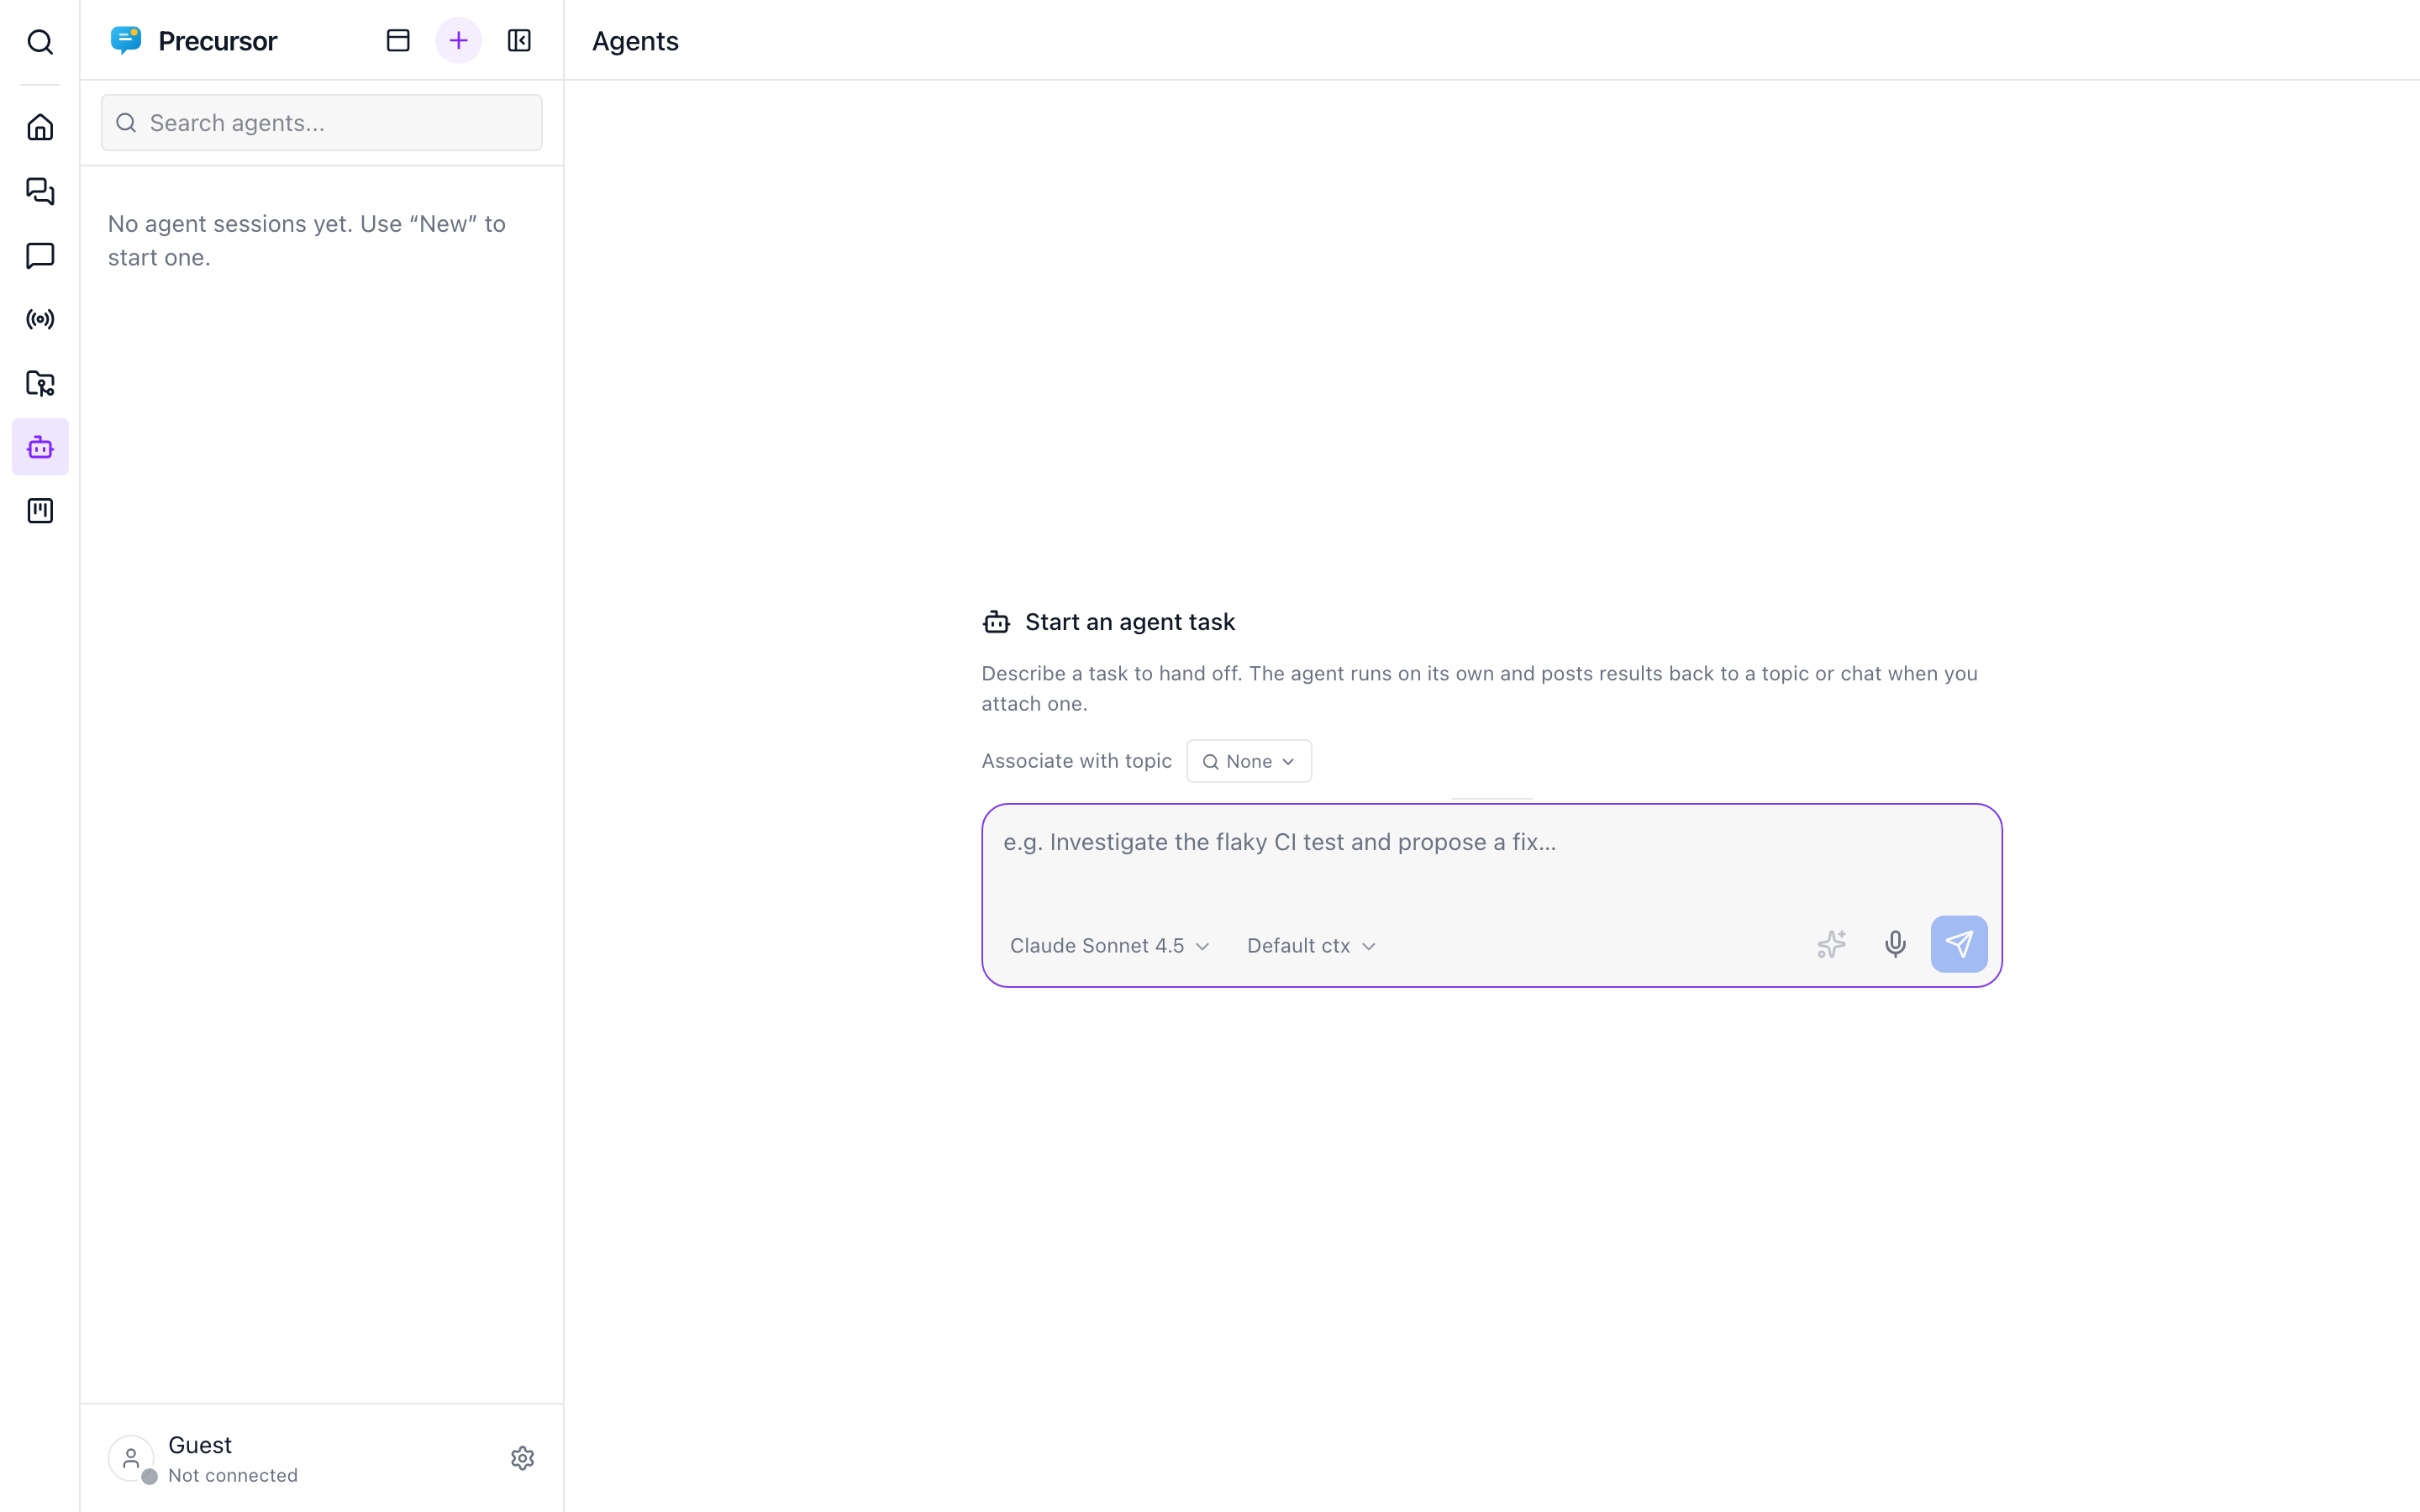
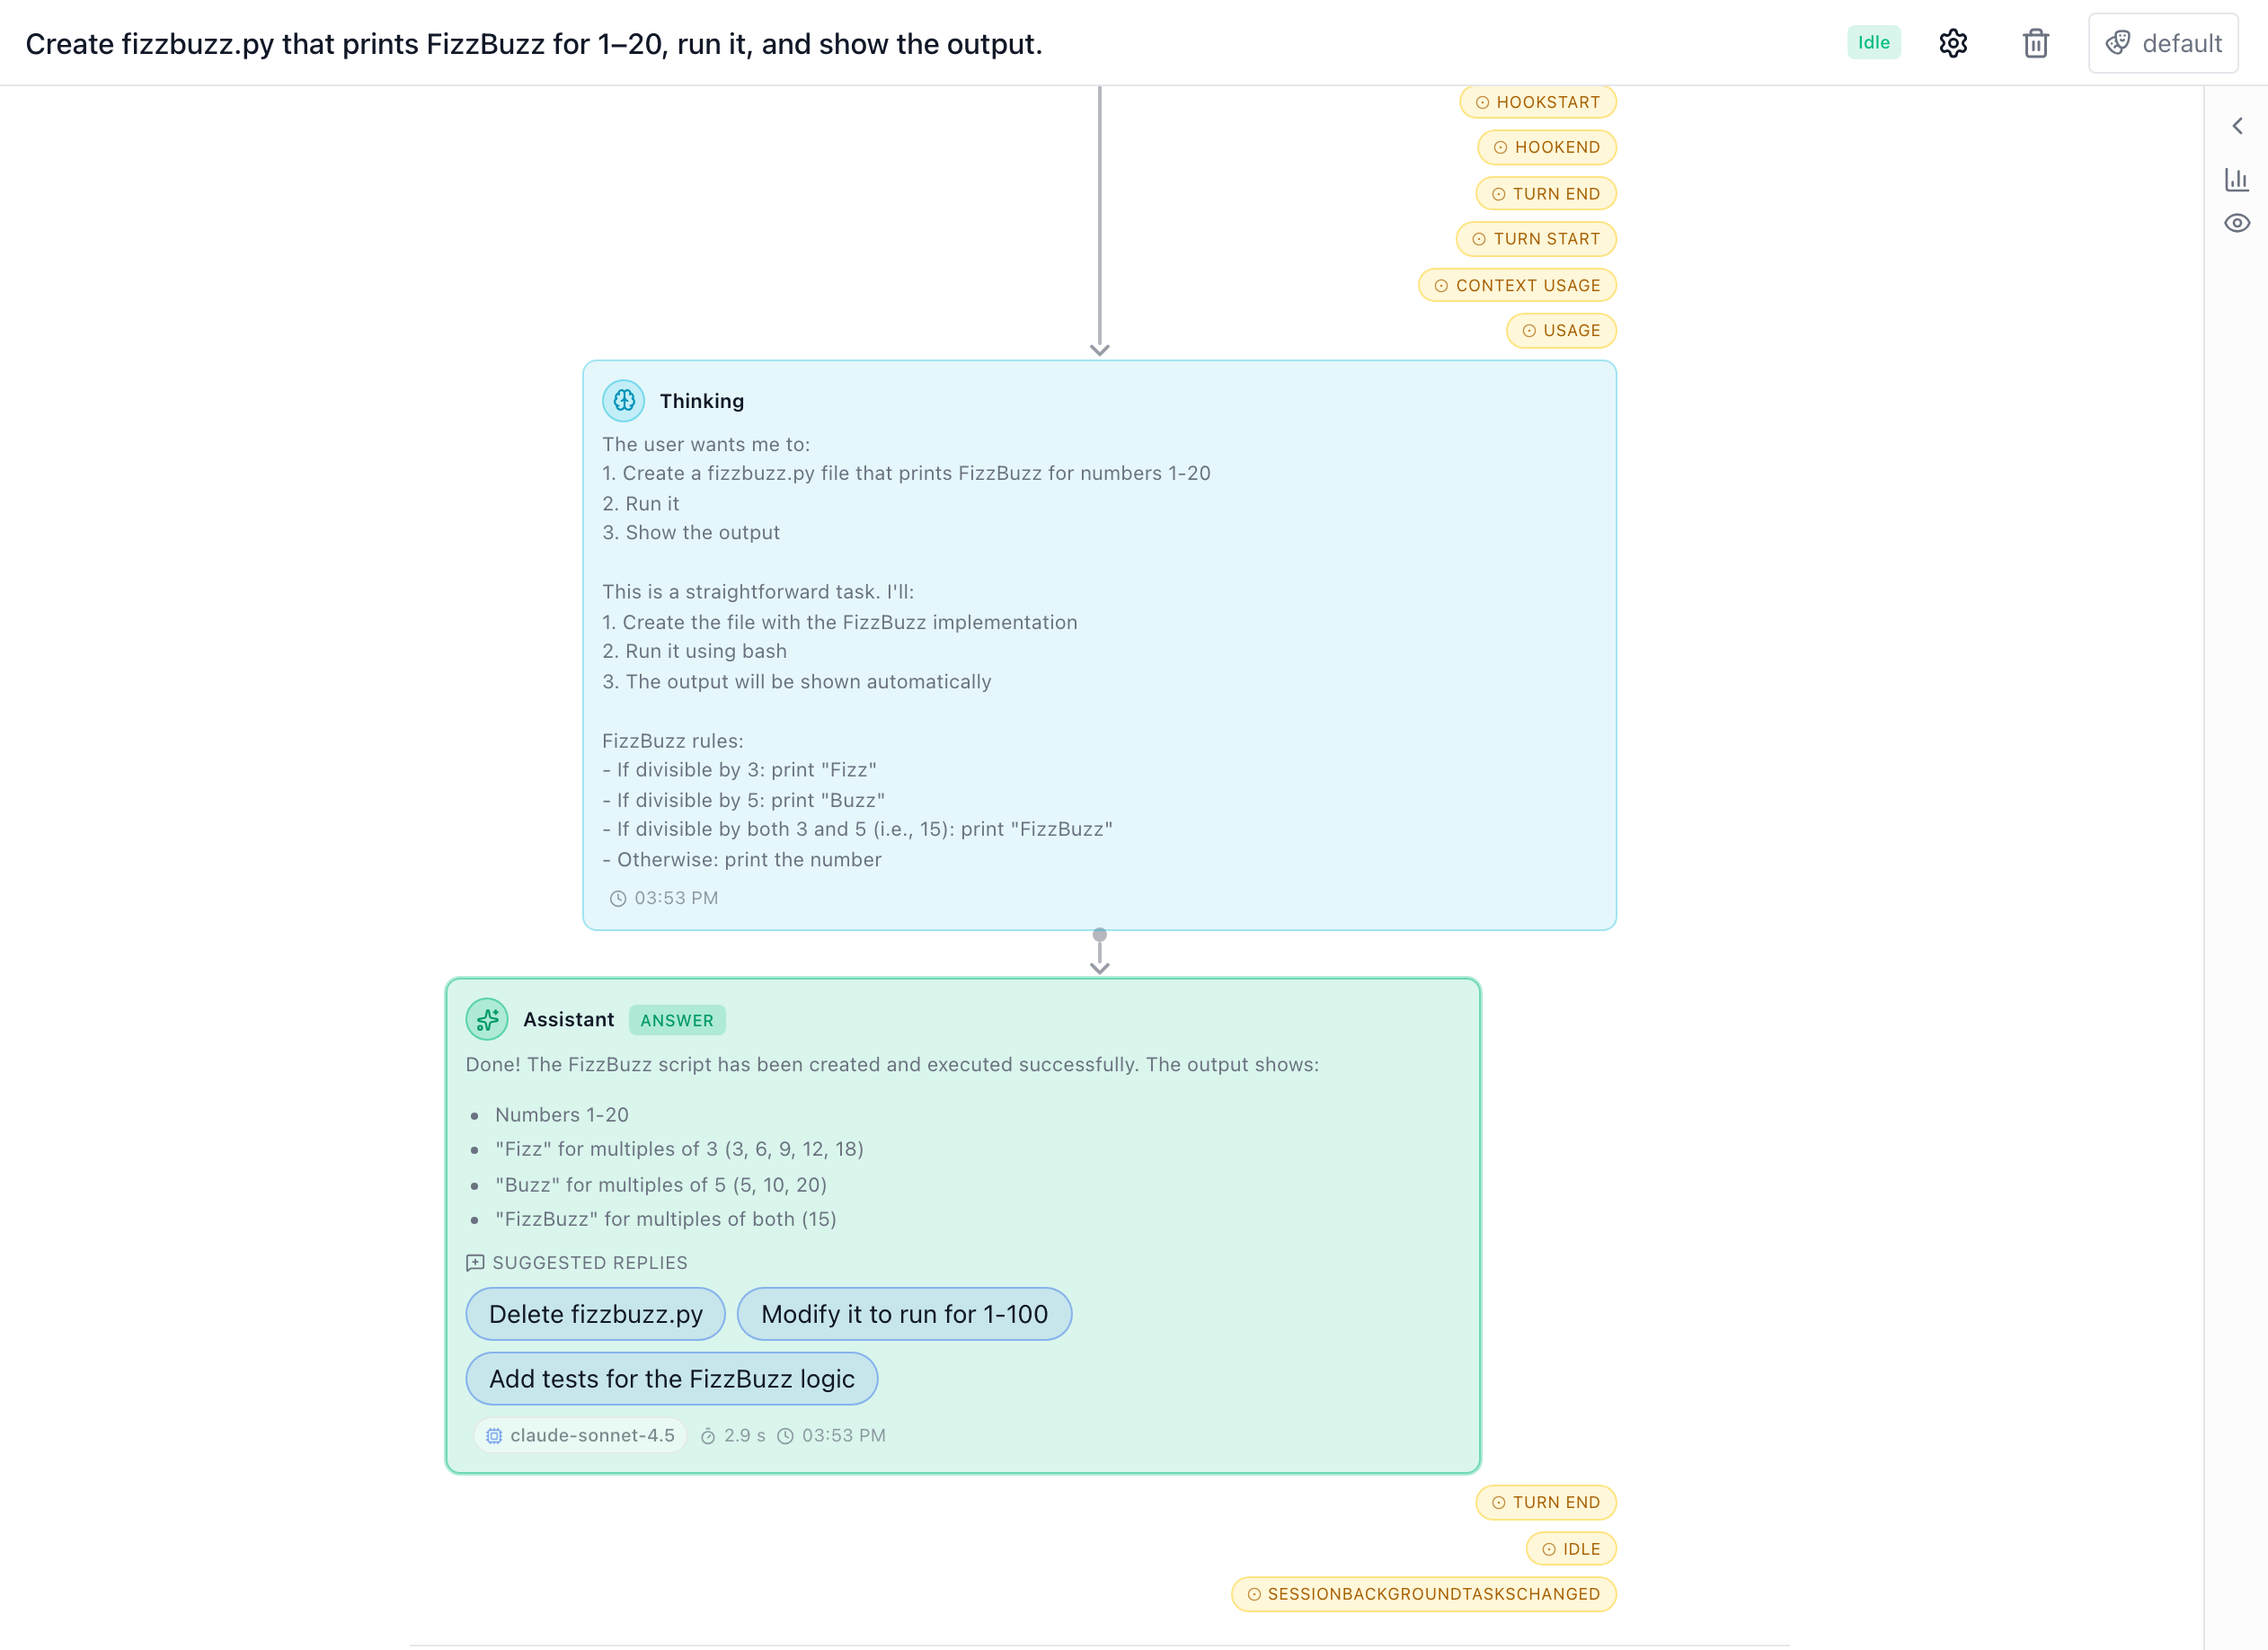
docs(agents): real agent-conversation screenshots (light + dark)
Replace the empty start-hero agents shot with a real completed run (task,
reasoning step, assistant answer + suggested replies) captured light and dark,
clipped to the timeline pane (account hidden). Update the caption to match.

Copilot-Session: 27f6deeb-4fce-428b-a878-c18e39554273

diff --git a/website/features/agents.md b/website/features/agents.md
@@ -8,7 +8,7 @@ title: Agents
 attached to a topic or chat, and lets you follow its progress in a workflow-style
 timeline. It's **opt-in and off by default**.
 
-<Screenshot src="/screenshots/agents.png" alt="An agent session timeline showing the task, streamed steps, and tool calls" caption="An agent session — the task at the top, then a workflow-style timeline of the agent's steps and tool calls." />
+<Screenshot src="/screenshots/agents.png" alt="An agent session timeline showing the task, a reasoning step, and the assistant's answer with suggested replies" caption="An agent session — the task at the top, then a workflow-style timeline: reasoning, tool calls, and the assistant's answer with suggested follow-ups." />
 
 ## Enabling agents
 